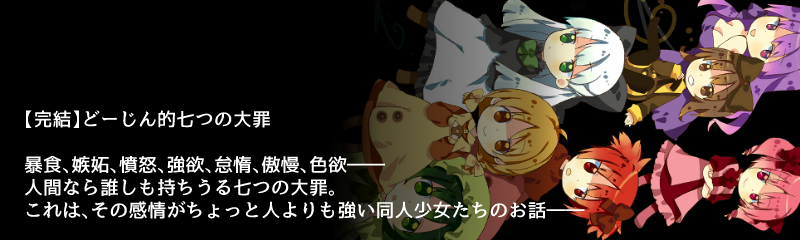
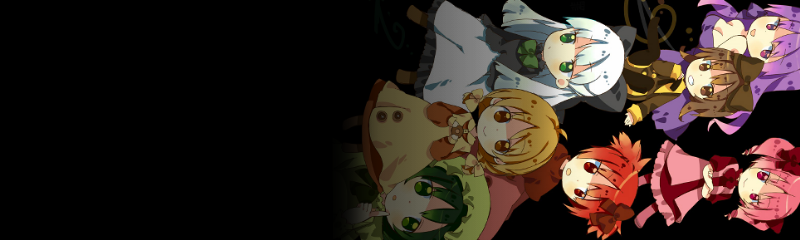
renew

Changed region(s): [[0.0312, 0.6417, 0.7188, 0.9333], [0.0312, 0.4667, 0.3438, 0.5542]]

diff --git a/medacanpany/css/common.min.css b/medacanpany/css/common.min.css
@@ -1,1 +1,1 @@
-body{background:#f9d0ff;background:linear-gradient(0deg, rgba(249,208,255,0.336572) 0%, #99d0ff 100%);line-height:1.5;height:100%;margin:0;position:relative}ul{margin:0;padding:0}li{list-style-type:none}a{color:#39bfff;text-decoration:underline}p{margin-bottom:0}header{color:#fff;display:flex;justify-content:space-between;right:0;padding:15px 10px;position:fixed;top:0;width:100%;z-index:1}header .site-title{font-family:'Lexend Exa', sans-serif;font-size:calc(2.4rem + ((1vw - 0.64rem) * 2.1429));position:absolute;top:0;right:0;margin:0}header .sns li{display:inline-block}header .sns li:not(:last-of-type){margin-right:8px}header .sns img{width:40px}.container{background:rgba(255,255,255,0.9);border-radius:5px;box-shadow:0 1px 1px rgba(12,14,39,0.4);margin:0 auto 20px;padding:20px;position:relative}.container .cont-title{color:#101b52;background:-webkit-linear-gradient(0deg, #1165bb, #a862c3);-webkit-background-clip:text;-webkit-text-fill-color:transparent;font-family:'Lexend Exa', sans-serif;text-align:center;position:absolute;top:-16px;right:20px;margin:0}.container .sub-title{color:#101b52;background:-webkit-linear-gradient(0deg, #2e3a73, #1c9aea);-webkit-background-clip:text;-webkit-text-fill-color:transparent;font-family:'Lexend Exa', sans-serif;margin:0}.container#offline img{max-width:150px}.container#comic img{width:100%}.container#game img{max-width:80vw;width:220px}.container#link a{display:inline-block}.top-image{background:url(../image/top-image.jpg) no-repeat center top;background-size:cover;height:100vh;position:fixed;right:0;top:0;width:calc(50vw - 20px)}.contents_wrap{box-sizing:border-box;padding:40px 40px 0;width:50vw}.row{margin-bottom:20px}footer{margin:0;padding:0 20px 20px}.mt10{margin-top:10px !important}
+body{background:#f9d0ff;background:linear-gradient(0deg, rgba(249,208,255,0.336572) 0%, #99d0ff 100%);line-height:1.5;height:100%;margin:0;position:relative}ul{margin:0;padding:0}li{list-style-type:none}a{color:#39bfff;text-decoration:underline}p{margin-bottom:0}header{color:#fff;display:flex;justify-content:space-between;right:0;padding:15px 10px;position:fixed;top:0;width:100%;z-index:1}header .site-title{font-family:'Lexend Exa', sans-serif;font-size:calc(2.4rem + ((1vw - 0.64rem) * 2.1429));position:absolute;top:0;right:0;margin:0}header .sns li{display:inline-block}header .sns li:not(:last-of-type){margin-right:8px}header .sns img{width:40px}.container{background:rgba(255,255,255,0.9);border-radius:5px;box-shadow:0 1px 1px rgba(12,14,39,0.4);margin:0 auto 20px;padding:20px;position:relative}.container .cont-title{color:#101b52;background:-webkit-linear-gradient(0deg, #1165bb, #a862c3);-webkit-background-clip:text;-webkit-text-fill-color:transparent;font-family:'Lexend Exa', sans-serif;text-align:center;position:absolute;top:-16px;right:20px;margin:0}.container .sub-title{color:#101b52;background:-webkit-linear-gradient(0deg, #2e3a73, #1c9aea);-webkit-background-clip:text;-webkit-text-fill-color:transparent;font-family:'Lexend Exa', sans-serif;margin:0}.container#offline img{max-width:150px}.container#game img{max-width:80vw;width:220px}.container#link a{display:inline-block}#comic div[class^=c_]{width:100%;background-size:cover;position:relative;box-shadow:0 1px 1px rgba(12,14,39,0.4)}#comic div[class^=c_]:not(:last-child){margin-bottom:10px}#comic div[class^=c_]:hover{filter:brightness(80%)}#comic div[class^=c_]:before{content:"";display:block;padding-top:25%}#comic div[class^=c_] a{color:#fff;text-decoration:none}#comic div[class^=c_] span{font-size:12px;font-weight:bold;position:absolute;bottom:10px;left:10px;text-shadow:1px 1px 0 #0f216f,-1px -1px 0 #0f216f,-1px 1px 0 #0f216f,1px -1px 0 #0f216f,0px 1px 0 #0f216f,-1px 0 #0f216f,-1px 0 0 #0f216f,1px 0 0 #0f216f}#comic .c_kuzu{background:url(../image/b-kuzu.png) no-repeat}#comic .c_kabu{background:url(../image/b-kabu.png) no-repeat}#comic .c_nichijo{background:url(../image/b-nichijo.png) no-repeat}#comic .c_7tumi{background:url(../image/b-7tumi.png) no-repeat}.top-image{background:url(../image/top-image.jpg) no-repeat center top;background-size:cover;height:100vh;position:fixed;right:0;top:0;width:calc(50vw - 20px)}.contents_wrap{box-sizing:border-box;padding:40px 40px 0;width:50vw}.row{margin-bottom:20px}footer{margin:0;padding:0 40px 20px}.mt10{margin-top:10px !important}

diff --git a/medacanpany/index.html b/medacanpany/index.html
@@ -56,10 +56,10 @@
         <h2 class="cont-title">comic</h2>
         <div>
           <h3 class="sub-title">series</h3>
-          <div><a href="https://note.com/kurimedaka/m/mbb08a79df3f6"><img src="image/b-kuzu.png" class="comic-tile" alt=""></a></div>
-          <div><a href="https://note.com/kurimedaka/m/m733caf3b3911"><img src="image/b-kabu.png" class="comic-tile" alt=""></a></div>
-          <div><a href="https://note.com/kurimedaka/m/m95d71f4f40a8"><img src="image/b-nichijo.png" class="comic-tile" alt=""></a></div>
-          <div><a href="https://note.com/kurimedaka/m/m78d68b8ef45b"><img src="image/b-7tumi.png" class="comic-tile" alt=""></a></div>
+          <div class="c_kuzu"><a href="https://note.com/kurimedaka/m/mbb08a79df3f6"><span>クズのしつけ<br /><br />クズすぎてネコにされた君主をまともな人間にする話…<br />という名目のほぼインプットをアウトプットする感じになってる生活情報バラエティ</span></a></div>
+          <div class="c_kabu"><a href="https://note.com/kurimedaka/m/m733caf3b3911"><span>株式日記<br /><br />たぶん実録のなんちゃって株取引日記マンガ</span></a></div>
+          <div class="c_nichijo"><a href="https://note.com/kurimedaka/m/m95d71f4f40a8"><span>日常日記<br /><br />どうでもいい日常の日記漫画です。基本的にラフ</span></a></div>
+          <div class="c_7tumi"><a href="https://note.com/kurimedaka/m/m78d68b8ef45b"><span>【完結】どーじん的七つの大罪<br /><br />暴食、嫉妬、憤怒、強欲、怠惰、傲慢、色欲――<br />人間なら誰しも持ちうる七つの大罪。<br />これは、その感情がちょっと人よりも強い同人少女たちのお話――</span></a></div>
           <div class="row">
             <div><img src="image/top-tile-dan.png" alt=""></div>
             <div>

diff --git a/medacanpany/css/common.scss b/medacanpany/css/common.scss
@@ -80,15 +80,58 @@ header {
   &#offline img {
     max-width: 150px;
   }
-  &#comic img {
-    width: 100%;
-  }
   &#game img {
     max-width: 80vw;
     width: 220px;
   }
   &#link a {
     display: inline-block;
+  }
+}
+#comic {
+  div[class^=c_] {
+    width: 100%;
+    background-size: cover;
+    position: relative;
+    box-shadow: 0 1px 1px rgba(12, 14, 39, 0.4);
+    &:not(:last-child) {
+      margin-bottom: 10px;
+    }
+    &:hover {
+      filter: brightness(80%);
+    }
+    &:before {
+      content:"";
+      display: block;
+      padding-top: 25%;
+    }
+    a {
+      color: #fff;
+      text-decoration: none;
+    }
+    span {
+      font-size: 12px;
+      font-weight: bold;
+      position: absolute;
+      bottom: 10px;
+      left: 10px;
+      text-shadow:1px 1px 0 #0f216f, -1px -1px 0 #0f216f,
+              -1px 1px 0 #0f216f, 1px -1px 0 #0f216f,
+              0px 1px 0 #0f216f,  0-1px 0 #0f216f,
+              -1px 0 0 #0f216f, 1px 0 0 #0f216f;
+    }
+  }
+  .c_kuzu {
+    background: url(../image/b-kuzu.png) no-repeat;
+  }
+  .c_kabu {
+    background: url(../image/b-kabu.png) no-repeat;
+  }
+  .c_nichijo {
+    background: url(../image/b-nichijo.png) no-repeat;
+  }
+  .c_7tumi {
+    background: url(../image/b-7tumi.png) no-repeat;
   }
 }
 .top-image {
@@ -110,7 +153,7 @@ header {
 }
 footer {
   margin: 0;
-  padding: 0 20px 20px;
+  padding: 0 40px 20px;
 }
 .mt10 {
   margin-top: 10px !important;
